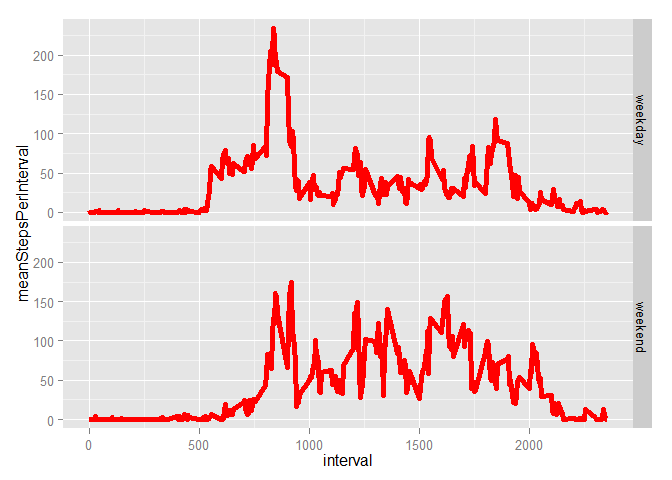
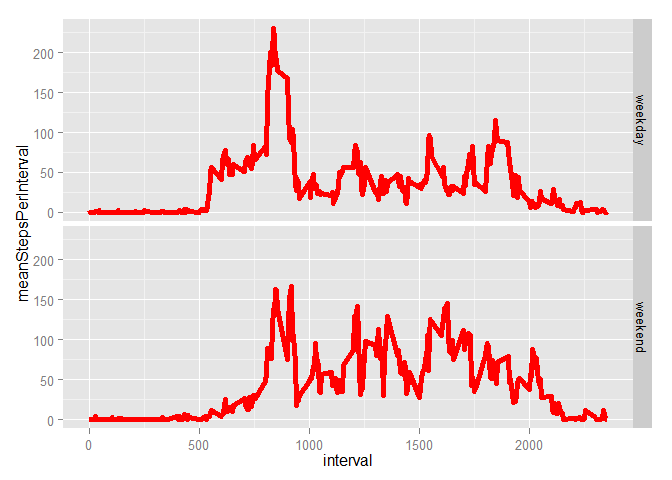
using correct data for last part of assignment
using data2 instead of data as the base for data3. This uses the dataset
where missing values were filled in.

diff --git a/PA1_template.html b/PA1_template.html
@@ -191,7 +191,7 @@ print(paste(&quot;mean 1&quot;, meanTotalStepsPerDay, &quot;mean 2&quot;, meanTo
 <div id="section-6" class="section level3">
 <h3>1.</h3>
 <p>Task: Create a new factor variable in the dataset with two levels - “weekday” and “weekend” indicating whether a given date is a weekday or weekend day.</p>
-<pre class="r"><code>data3 &lt;- data
+<pre class="r"><code>data3 &lt;- data2
 data3$weekday &lt;- factor(x = NA, levels = 1:2,  labels = c(&quot;weekday&quot;, &quot;weekend&quot;))
 for (i in 1:nrow(data3)) {
     if (wday(data3$date[i]) &gt; 1 &amp;&amp; wday(data3$date[i]) &lt; 7) {
@@ -213,14 +213,14 @@ head(meanPerInterval3)</code></pre>
 ## Groups: interval
 ## 
 ##   interval weekday meanStepsPerInterval
-## 1        0 weekday            2.3333333
-## 2        0 weekend            0.0000000
-## 3        5 weekday            0.4615385
-## 4        5 weekend            0.0000000
-## 5       10 weekday            0.1794872
-## 6       10 weekend            0.0000000</code></pre>
+## 1        0 weekday           2.25115304
+## 2        0 weekend           0.21462264
+## 3        5 weekday           0.44528302
+## 4        5 weekend           0.04245283
+## 5       10 weekday           0.17316562
+## 6       10 weekend           0.01650943</code></pre>
 <pre class="r"><code>ggplot(data = meanPerInterval3, aes(x = interval, y = meanStepsPerInterval)) + geom_line(size = 2, color = &quot;red&quot;) + facet_grid(weekday ~ .)</code></pre>
[2 lines of base64/hex data omitted]
 <p>One can see that the mean number of steps early in the day (interval is small) is larger for weekdays than on weekends, whereas the activity at the end of the day is larger during the weekend.</p>
 </div>
 </div>

diff --git a/PA1_template.md b/PA1_template.md
@@ -219,7 +219,7 @@ Task: Create a new factor variable in the dataset with two levels - "weekday" an
 
 
 ```r
-data3 <- data
+data3 <- data2
 data3$weekday <- factor(x = NA, levels = 1:2,  labels = c("weekday", "weekend"))
 for (i in 1:nrow(data3)) {
     if (wday(data3$date[i]) > 1 && wday(data3$date[i]) < 7) {
@@ -249,12 +249,12 @@ head(meanPerInterval3)
 ## Groups: interval
 ## 
 ##   interval weekday meanStepsPerInterval
-## 1        0 weekday            2.3333333
-## 2        0 weekend            0.0000000
-## 3        5 weekday            0.4615385
-## 4        5 weekend            0.0000000
-## 5       10 weekday            0.1794872
-## 6       10 weekend            0.0000000
+## 1        0 weekday           2.25115304
+## 2        0 weekend           0.21462264
+## 3        5 weekday           0.44528302
+## 4        5 weekend           0.04245283
+## 5       10 weekday           0.17316562
+## 6       10 weekend           0.01650943
 ```
 
 ```r
